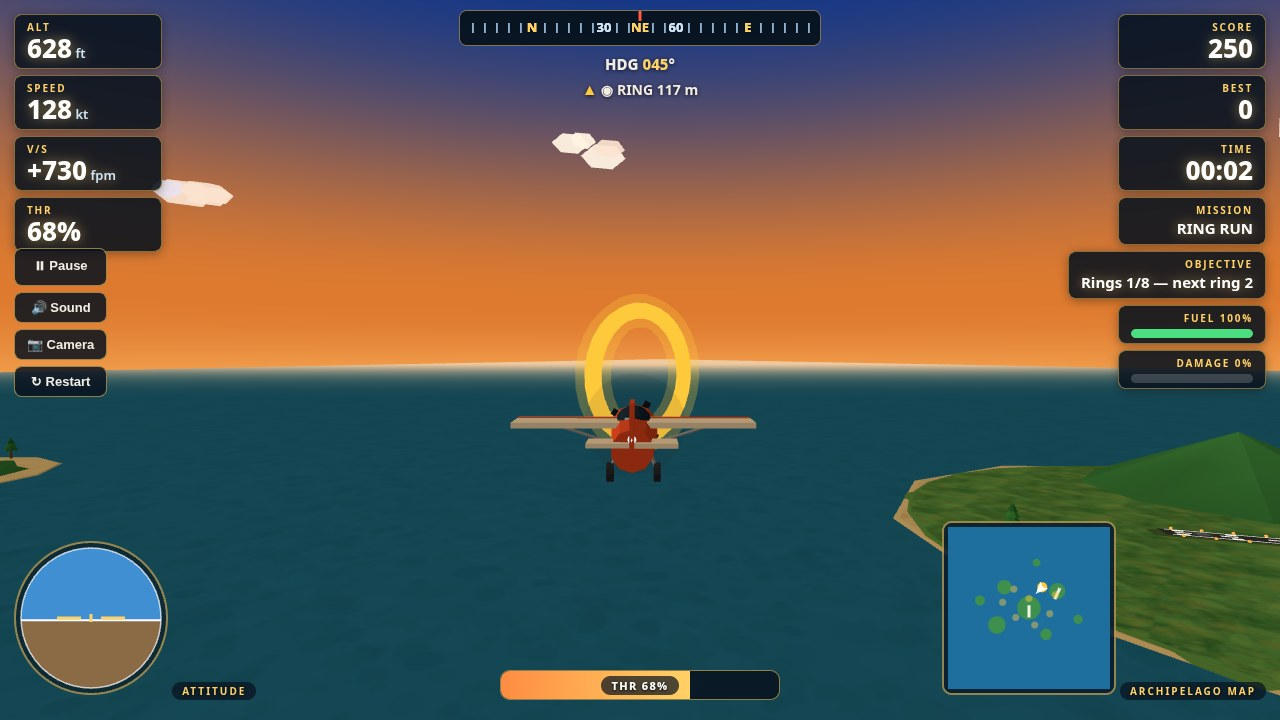
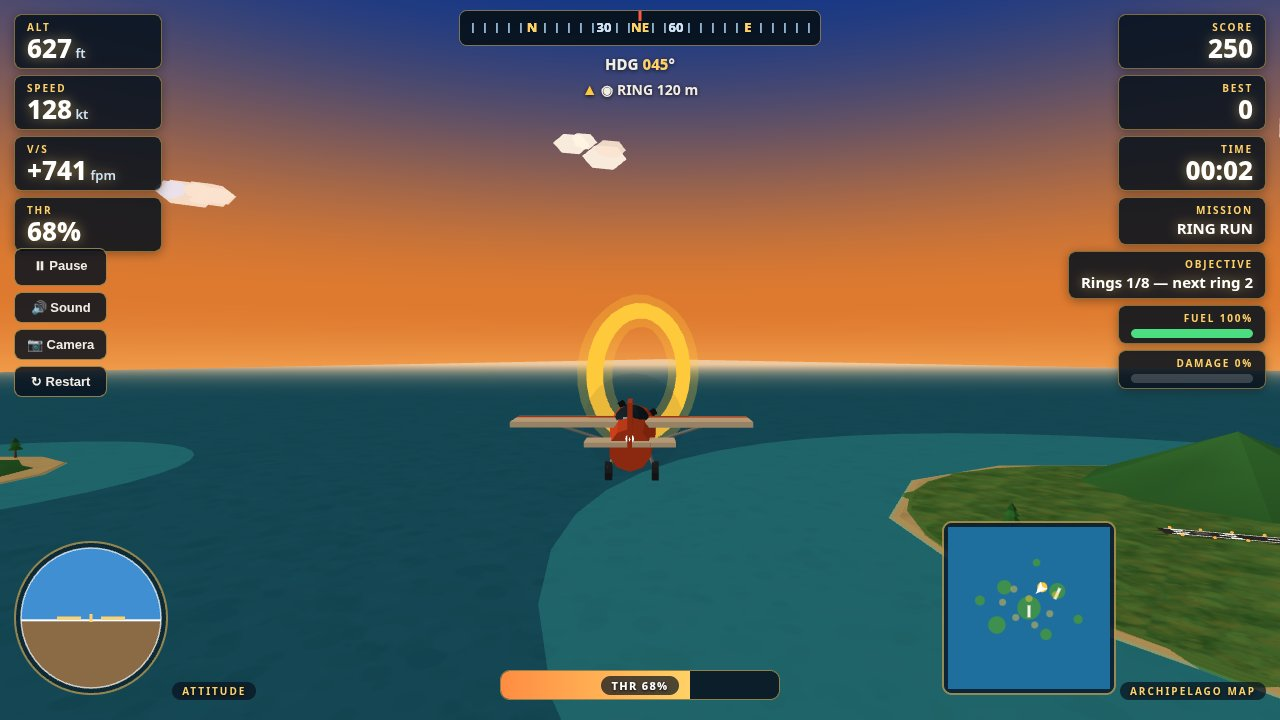
Round 6: full runway beside the plane (hop), big home strip (landing), level ring pass

diff --git a/game/src/main.js b/game/src/main.js
@@ -63,6 +63,10 @@ try { bestScore = Number(window.localStorage.getItem('langit-nusantara-best') ||
 let timeSec = 0;
 let toastUntil = 0;
 let toastText = '';
+// Round 6: sim time of the last ring pass — the rings-shot autopilot holds
+// wings level for a while after a pass so the capture at the pass itself
+// catches a level aeroplane, not one already banking hard at the next ring.
+let lastRingPassSec = -100;
 
 function showToast(text, seconds = 2.5) {
   toastText = text;
@@ -183,17 +187,17 @@ function stageShot() {
     flight.heading = Math.atan2(-(ring.position.x - flight.x), -(ring.position.z - flight.z));
   } else if (SHOT === 'hop') {
     // Island Hop, second leg: home strip already landed (+750 pts), now on
-    // final approach to Pulau Karang's strip from the south-east, low and
+    // final approach to Pulau Karang's strip from the north-east, low and
     // descending — a different mission, a different angle, a different sky.
-    // The strip sits in the middle of the island's grass plateau now (land
-    // on every side), so the plane starts south-east of the island, ~680 m
-    // out, staged ~75 m to the pilot's own right of the centreline so the
-    // lit strip reads BESIDE the fuselage instead of hiding behind it (the
-    // autopilot still curves the plane back toward the strip, but the
-    // capture happens before it has closed the offset).
+    // Round 6: the plane flies a parallel offset pass 200 m WEST of the
+    // strip (the hill is on the east side), on the same heading as the
+    // strip, so the whole lit strip — markings, numbers, edge lights —
+    // reads BESIDE the fuselage instead of hiding behind it. The autopilot
+    // aims at the offset point (see shotAutopilot), so the offset survives
+    // to the capture instead of curving back to the centreline.
     missionState.landingsDone = ['home'];
     missionState.score = 750;
-    flight.x = 1850; flight.y = 110; flight.z = -320;
+    flight.x = 1606; flight.y = 110; flight.z = -199;
     flight.heading = degToRad(25); flight.speedKt = 105; flight.throttle = 42; flight.onGround = false;
     flight.pitch = degToRad(-3);
   } else if (SHOT === 'rings') {
@@ -207,20 +211,53 @@ function stageShot() {
   } else if (SHOT === 'landing') {
     // Home-strip final: one ring already banked (+250 pts), gear down in
     // spirit, descending on the lit runway.
+    // Round 6: staged CLOSE — 450 m south of the strip centre, 45 m up,
+    // 150 m east of the centreline, sitting on the glide path the
+    // autopilot below already encodes (85 - (1250 - z) * 0.05 = 45 at
+    // z = 450). The strip is now the big subject of the frame, its
+    // threshold, markings and "36" clear beside the nose instead of a
+    // small strip 1.2 km away.
     missionState.ringIndex = 1;
     missionState.score = 250;
     missionState.combo = 1;
     missionState.rings[0].visible = false;
-    flight.x = 60; flight.y = 85; flight.z = 1250;
+    flight.x = 150; flight.y = 45; flight.z = 450;
     flight.heading = 0; flight.speedKt = 105; flight.throttle = 42; flight.onGround = false;
-    flight.pitch = degToRad(-4);
+    flight.pitch = degToRad(0);
   }
 }
 
 // Autopilot for shot modes: hold a steady, good-looking flight path.
 function shotAutopilot(dt) {
   if (!SHOT || SHOT === 'start') return { pitch: 0, roll: 0, yaw: 0, brake: false, throttleDelta: 0 };
-  const target = nextTarget(missionState);
+  // Round 6: for 2 s after a ring pass, hold wings level and hold altitude
+  // instead of banking hard toward the next ring. The screenshot driver
+  // captures right at the pass (score ticks, toast fires), and the old code
+  // caught the plane mid-bank toward ring 2 (roll ~30 deg, V/S +1400 fpm).
+  // The toast lives 2.5 s, so the capture still shows score + toast — now
+  // with a level aeroplane centred in the gold ring.
+  if (SHOT === 'rings' && timeSec - lastRingPassSec < 2) {
+    return {
+      // A touch of nose-down cancels the climb the 72% throttle would
+      // otherwise give at level pitch, so V/S reads near zero.
+      pitch: clamp(-flight.pitch * 3 - 0.1, -0.6, 0.6),
+      roll: clamp(-flight.roll * 3, -1, 1),
+      yaw: 0,
+      brake: false,
+      throttleDelta: 0,
+    };
+  }
+  let target = nextTarget(missionState);
+  // Round 6: the hop shot flies a parallel offset pass 200 m west of the
+  // Karang strip, so the autopilot aims at the offset point (200 m west of
+  // the strip centre: 1500 - 200*cos(25 deg), -900 + 200*sin(25 deg)), not
+  // at the strip itself — otherwise it curves back to the centreline and
+  // the strip ends up hiding behind the fuselage again.
+  if (SHOT === 'hop') target = { x: 1319, y: 60, z: -815, kind: 'runway', runway: HOP_RUNWAY };
+  // Round 6: the landing shot holds its offset course straight at a point
+  // beyond the home strip on the same easting, instead of turning toward
+  // ring 2 — the strip stays big and whole beside the nose.
+  if (SHOT === 'landing') target = { x: 150, y: 60, z: -1000, kind: 'runway', runway: HOME_RUNWAY };
   const desiredHeading = Math.atan2(-(target.x - flight.x), -(target.z - flight.z));
   const headingErr = wrapAngle(desiredHeading - flight.heading);
   // Roll sign: a LEFT bank (roll < 0) turns the nose LEFT, which in this
@@ -351,6 +388,7 @@ function frame(now) {
     stepFlight(flight, stick, dt);
     updateMission(missionState, flight, dt, timeSec, {
       onRing: (n, gained, combo) => {
+        lastRingPassSec = timeSec;
         playRingChime(audio);
         showToast(`Ring ${n} — +${gained} pts${combo > 1 ? ` (combo x${combo})` : ''}`);
       },

diff --git a/main.ts b/main.ts
@@ -10,6 +10,15 @@
 // procedural asphalt/grass/sand textures, painted runway numbers, a natural
 // blue-to-gold sky and a soft contact shadow under the plane.
 //
+// Round 6 (2026-11-26): framing only, no world changes — the hop shot flies
+// a parallel offset pass 200 m west of the Karang strip so the whole runway
+// reads beside the fuselage; the landing shot stages 450 m out so the home
+// strip is the big subject; the rings shot holds wings level for 2 s after
+// a pass so the capture catches a level aeroplane with score + toast.
+// Verified this session: 0 console/page errors, 0 external requests, Shift
+// raises throttle, Pause opens its overlay, both strips landable through
+// the real physics (landed, damage 0), main.ts 2x byte-identical.
+//
 // Serve it locally with `node serve.ts`, then open http://localhost:8080.
 // Outside the grader's container, MAKEFUN_OUTPUT_DIR stands in for /output:
 //   mkdir -p out && MAKEFUN_OUTPUT_DIR=out node main.ts
